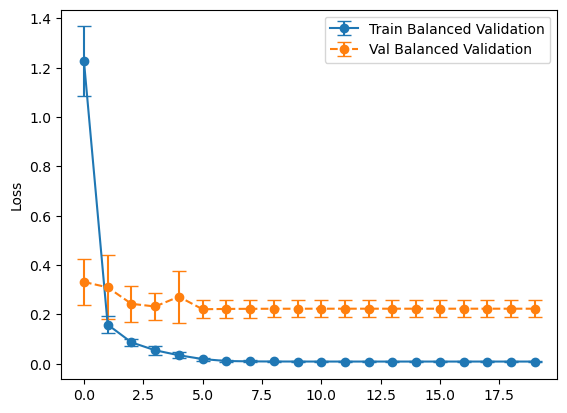
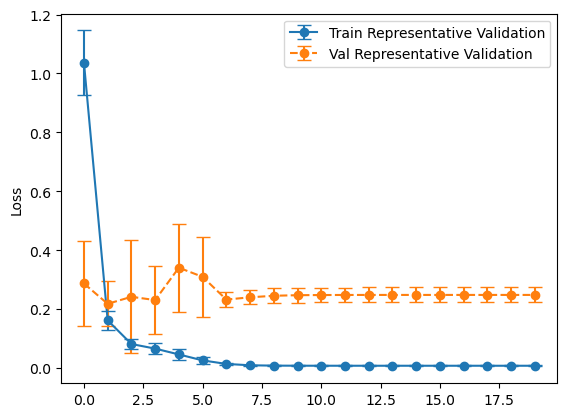
update val

diff --git a/_posts/2021-05-03-validation-on-unbalanced-datasets.md b/_posts/2021-05-03-validation-on-unbalanced-datasets.md
@@ -478,15 +478,13 @@ plot_cm(concat_labels, concat_preds_unbalanced)
     
 
 
-## Conclusion
+## Round 1 Conclusion
 
 Overall, it looks like the model that used the balanced validation set did better on the test set. This might be a bit of a surprise as validation datasets are supposed representative of the test set, but that one did worse. I think what's going on is we're using our validation set for two separate tasks - validating our results and using it's loss in the callbacks. I've rerun this experiment several times and gotten similar results.
 
 Now let's try it with a better model. We used a simple model for the first round of experiments. Now let's do the same thing except using Xception.
 
-## Train
-
-## Experiment #1
+## Experiment #4
 
 
 ```python
@@ -531,7 +529,7 @@ history_representative, preds_representative, evals_representative = run_experim
     69/69 [==============================] - 10s 138ms/step
     
 
-#### Experiment #1 Evaluation
+#### Experiment #4 Evaluation
 
 
 ```python
@@ -540,7 +538,7 @@ plot_losses(history_balanced, "Balanced Validation")
 
 
     
-![png](2021-05-03-validation-on-unbalanced-datasets_files/2021-05-03-validation-on-unbalanced-datasets_63_0.png)
+![png](2021-05-03-validation-on-unbalanced-datasets_files/2021-05-03-validation-on-unbalanced-datasets_62_0.png)
     
 
 
@@ -551,7 +549,7 @@ plot_losses(history_representative, "Representative Validation")
 
 
     
-![png](2021-05-03-validation-on-unbalanced-datasets_files/2021-05-03-validation-on-unbalanced-datasets_64_0.png)
+![png](2021-05-03-validation-on-unbalanced-datasets_files/2021-05-03-validation-on-unbalanced-datasets_63_0.png)
     
 
 
@@ -613,7 +611,7 @@ plot_cm(concat_labels, concat_preds_balanced)
 
 
     
-![png](2021-05-03-validation-on-unbalanced-datasets_files/2021-05-03-validation-on-unbalanced-datasets_70_0.png)
+![png](2021-05-03-validation-on-unbalanced-datasets_files/2021-05-03-validation-on-unbalanced-datasets_69_0.png)
     
 
 
@@ -624,11 +622,11 @@ plot_cm(concat_labels, concat_preds_unbalanced)
 
 
     
-![png](2021-05-03-validation-on-unbalanced-datasets_files/2021-05-03-validation-on-unbalanced-datasets_71_0.png)
+![png](2021-05-03-validation-on-unbalanced-datasets_files/2021-05-03-validation-on-unbalanced-datasets_70_0.png)
     
 
 
-## Experiment #2
+## Experiment #5
 
 Using a higher learning rate.
 
@@ -675,7 +673,7 @@ history_representative, preds_representative, evals_representative = run_experim
     69/69 [==============================] - 10s 136ms/step
     
 
-#### Experiment #2 Evaluation
+#### Experiment #5 Evaluation
 
 
 ```python
@@ -684,7 +682,7 @@ plot_losses(history_balanced, "Balanced Validation")
 
 
     
-![png](2021-05-03-validation-on-unbalanced-datasets_files/2021-05-03-validation-on-unbalanced-datasets_78_0.png)
+![png](2021-05-03-validation-on-unbalanced-datasets_files/2021-05-03-validation-on-unbalanced-datasets_77_0.png)
     
 
 
@@ -695,7 +693,7 @@ plot_losses(history_representative, "Representative Validation")
 
 
     
-![png](2021-05-03-validation-on-unbalanced-datasets_files/2021-05-03-validation-on-unbalanced-datasets_79_0.png)
+![png](2021-05-03-validation-on-unbalanced-datasets_files/2021-05-03-validation-on-unbalanced-datasets_78_0.png)
     
 
 
@@ -750,7 +748,7 @@ plot_cm(concat_labels, concat_preds_balanced)
 
 
     
-![png](2021-05-03-validation-on-unbalanced-datasets_files/2021-05-03-validation-on-unbalanced-datasets_84_0.png)
+![png](2021-05-03-validation-on-unbalanced-datasets_files/2021-05-03-validation-on-unbalanced-datasets_83_0.png)
     
 
 
@@ -761,11 +759,11 @@ plot_cm(concat_labels, concat_preds_unbalanced)
 
 
     
-![png](2021-05-03-validation-on-unbalanced-datasets_files/2021-05-03-validation-on-unbalanced-datasets_85_0.png)
+![png](2021-05-03-validation-on-unbalanced-datasets_files/2021-05-03-validation-on-unbalanced-datasets_84_0.png)
     
 
 
-## Experiment #3
+## Experiment #6
 
 Once more with a much lower learning rate.
 
@@ -812,7 +810,7 @@ history_representative, preds_representative, evals_representative = run_experim
     69/69 [==============================] - 10s 141ms/step
     
 
-#### Experiment #3 Evaluation
+#### Experiment #6 Evaluation
 
 
 ```python
@@ -821,7 +819,7 @@ plot_losses(history_balanced, "Balanced Validation")
 
 
     
-![png](2021-05-03-validation-on-unbalanced-datasets_files/2021-05-03-validation-on-unbalanced-datasets_92_0.png)
+![png](2021-05-03-validation-on-unbalanced-datasets_files/2021-05-03-validation-on-unbalanced-datasets_91_0.png)
     
 
 
@@ -832,7 +830,7 @@ plot_losses(history_representative, "Representative Validation")
 
 
     
-![png](2021-05-03-validation-on-unbalanced-datasets_files/2021-05-03-validation-on-unbalanced-datasets_93_0.png)
+![png](2021-05-03-validation-on-unbalanced-datasets_files/2021-05-03-validation-on-unbalanced-datasets_92_0.png)
     
 
 
@@ -887,7 +885,7 @@ plot_cm(concat_labels, concat_preds_balanced)
 
 
     
-![png](2021-05-03-validation-on-unbalanced-datasets_files/2021-05-03-validation-on-unbalanced-datasets_98_0.png)
+![png](2021-05-03-validation-on-unbalanced-datasets_files/2021-05-03-validation-on-unbalanced-datasets_97_0.png)
     
 
 
@@ -898,10 +896,10 @@ plot_cm(concat_labels, concat_preds_unbalanced)
 
 
     
-![png](2021-05-03-validation-on-unbalanced-datasets_files/2021-05-03-validation-on-unbalanced-datasets_99_0.png)
+![png](2021-05-03-validation-on-unbalanced-datasets_files/2021-05-03-validation-on-unbalanced-datasets_98_0.png)
     
 
 
-## Conclusion
+## Overall Conclusion
 
 We ran the experiment with Xception three times and each time the models converged to about the same final performance. It seems like with more advanced models, the distribution of the validation set didn't matter. Because of that, I would make it representative to match the test set.
